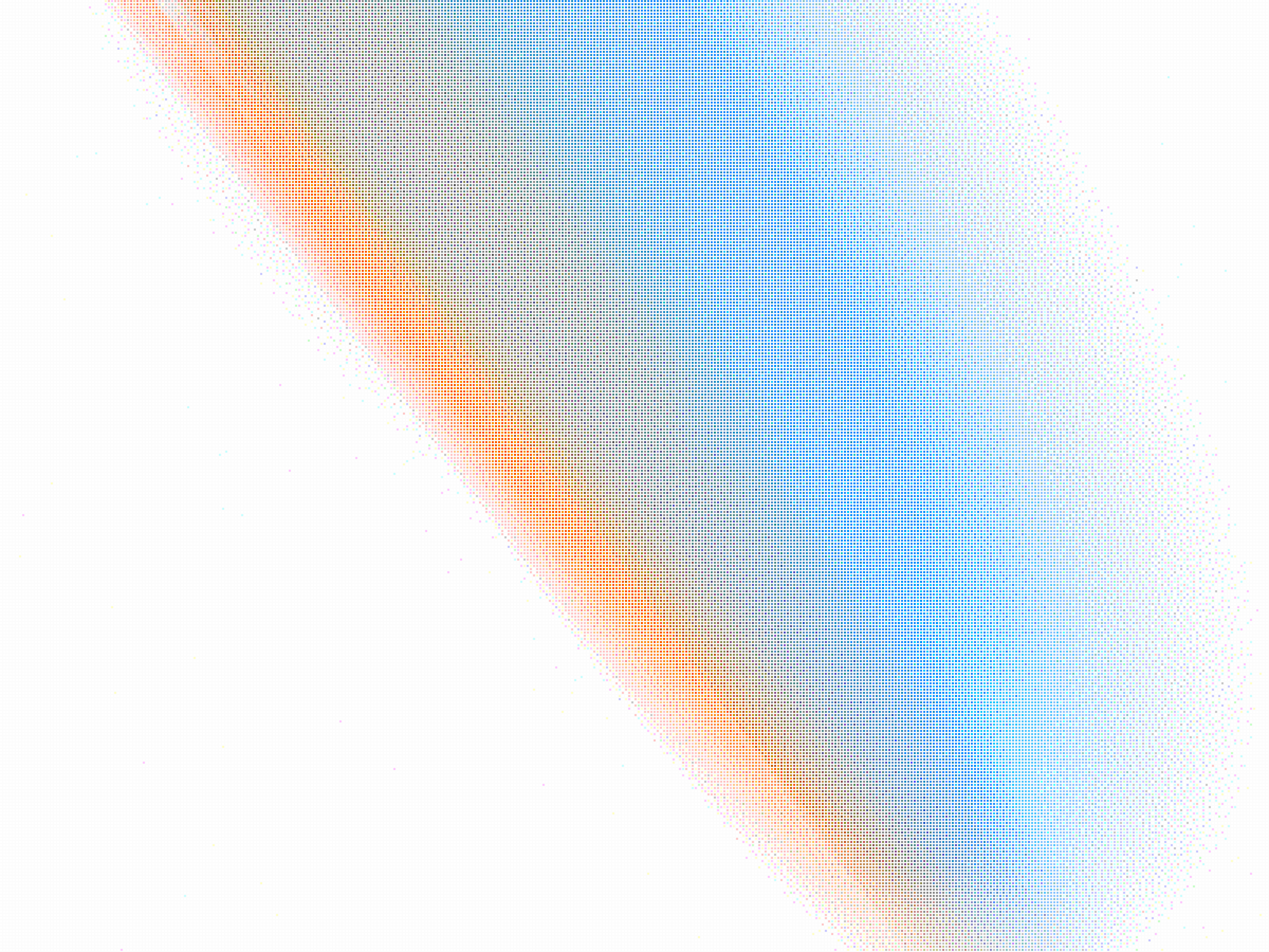
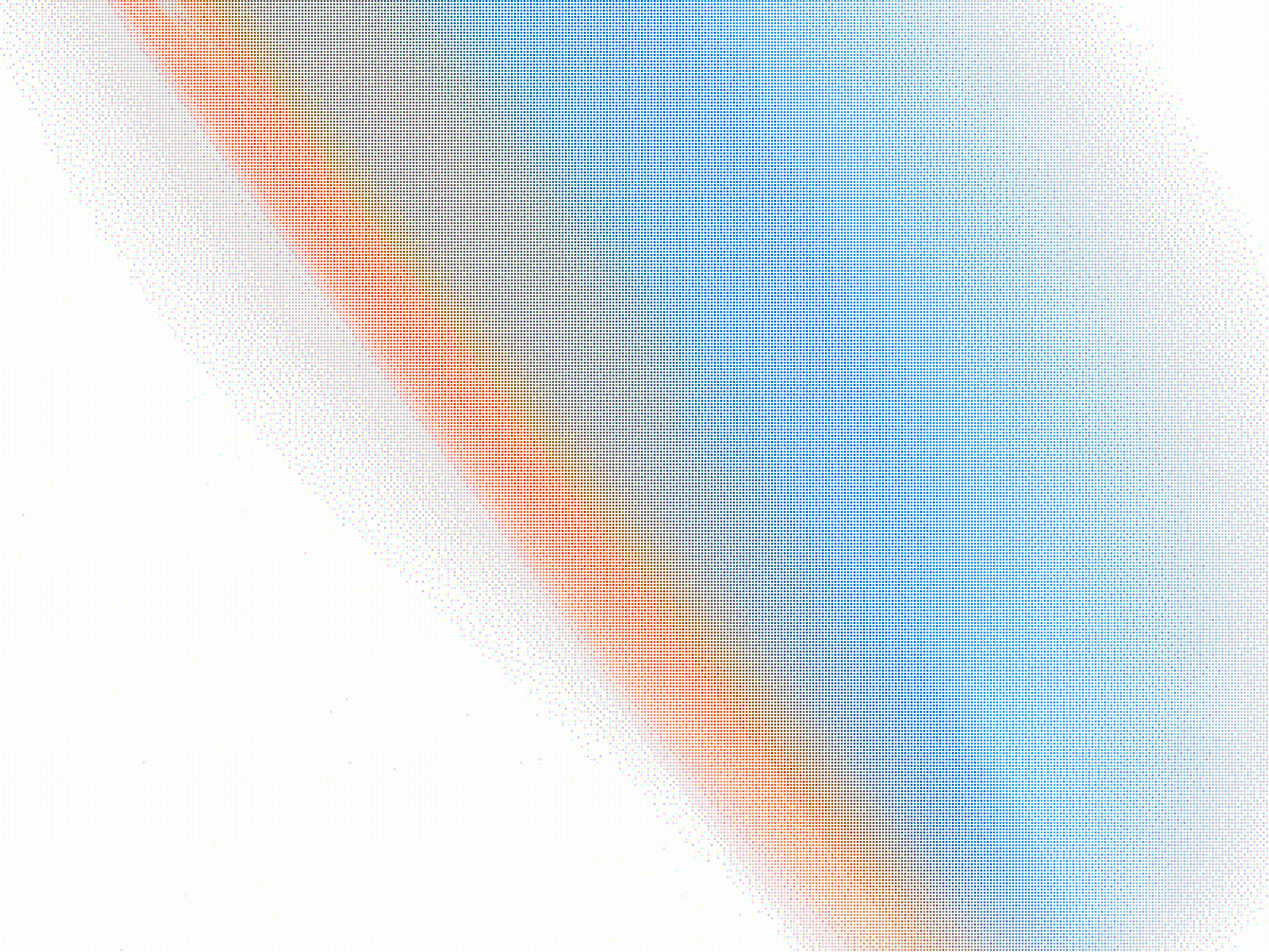
Light mode has the whole sunrise, blue sky and all, under a lighter veil
The light field kept only the band's rim and left the dim blue sky white, so the page read as a
wash. It now follows luminance on a curve that keeps the faint blue, deepened for print. The veil
behind the text is a per-theme token: strong on dark, lighter on light, and on a phone it spans the
width the text fills.

Changed region(s): [[0.0, 0.0, 1.0, 1.0]]

diff --git a/apps/web/scripts/field.ts b/apps/web/scripts/field.ts
@@ -74,13 +74,14 @@ function cells(light: boolean): Float32Array {
       const p = photo(x, y);
       for (let c = 0; c < 3; c++) {
         let v = p[c]! ** 1.4 * darken + (rand() * 2 - 1) * noise + noise * 0.35;
-        // On a light page the photo keeps its colour: space becomes paper, and the band's blue and orange are
-        // laid on it at full strength, so the page is white with a real sunrise across it rather than a wash.
+        // On a light page the photo keeps its colour: space becomes paper, and the atmosphere, dim blue sky and
+        // all, is laid on it in its own hues, so the page is white with a real sunrise across it rather than a wash.
+        // Presence follows luminance on a curve that keeps the faint blue, and each hue is deepened for print.
         if (light) {
           const lum = 0.2126 * p[0] + 0.7152 * p[1] + 0.0722 * p[2];
-          const presence = Math.min(1, Math.max(0, (lum - 0.06) / 0.5)); // how much of the scene is here
-          const sat = (p[c]! - lum) * 1.6; // its colour, boosted
-          const ink = 0.55 + sat; // the band's own tone: mid-bright, in its hue
+          const presence = Math.min(1, (lum / 0.6) ** 0.55); // how much of the scene is here
+          const sat = (p[c]! - lum) * 2.2; // its colour, boosted
+          const ink = 0.42 + sat; // the scene's own tone: deep enough to print, in its hue
           v = 1 - presence * (1 - Math.min(1, Math.max(0, ink))) + (rand() * 2 - 1) * noise * 0.5;
         }
         a[(y * COLS + x) * 3 + c] = v;

diff --git a/apps/web/src/Landing.tsx b/apps/web/src/Landing.tsx
@@ -233,7 +233,11 @@ const s = stylex.create({
   field: {
     position: "absolute",
     inset: 0,
-    backgroundImage: `radial-gradient(ellipse 70% 58% at 50% 34%, color-mix(in srgb, ${colors.page} 78%, transparent) 0%, color-mix(in srgb, ${colors.page} 55%, transparent) 45%, color-mix(in srgb, ${colors.page} 20%, transparent) 75%, transparent 100%), ${colors.field}`,
+    // On a phone the text fills the width, so the pool spans it edge to edge.
+    backgroundImage: {
+      default: `radial-gradient(ellipse 70% 58% at 50% 34%, color-mix(in srgb, ${colors.page} ${colors.veil}, transparent) 0%, color-mix(in srgb, ${colors.page} calc(${colors.veil} * 0.7), transparent) 45%, color-mix(in srgb, ${colors.page} calc(${colors.veil} * 0.25), transparent) 75%, transparent 100%), ${colors.field}`,
+      [PHONE]: `radial-gradient(ellipse 120% 52% at 50% 40%, color-mix(in srgb, ${colors.page} ${colors.veil}, transparent) 0%, color-mix(in srgb, ${colors.page} calc(${colors.veil} * 0.8), transparent) 55%, color-mix(in srgb, ${colors.page} calc(${colors.veil} * 0.3), transparent) 85%, transparent 100%), ${colors.field}`,
+    },
     // At least the screen's width, in whole multiples of half size where that fits, so the dots stay crisp.
     backgroundSize: { default: "auto, max(1200px, 100%) auto", [PHONE]: "auto, 1200px 900px" },
     backgroundPosition: { default: "center, center top", [PHONE]: "center, 70% top" },

diff --git a/apps/web/src/styles/tokens.stylex.ts b/apps/web/src/styles/tokens.stylex.ts
@@ -31,6 +31,9 @@ const DARK = {
   windowShadow: "0 40px 100px -20px rgb(0 0 0 / 60%)",
   // The page's ground: NASA's sunrise from orbit, dithered (scripts/field.ts), on a dark or a light page.
   field: 'url("/field-dark.webp")',
+  // How much of the page's colour veils the field behind the text (Landing.tsx): the dark page needs more, the light
+  // page's field is faint enough to show through.
+  veil: "78%",
   // The toggle shows what it switches to: a sun in the dark, a moon in the light.
   showSun: "flex",
   showMoon: "none",
@@ -57,6 +60,7 @@ const LIGHT_VALUES = {
   systemBlue: "#007aff",
   windowShadow: "0 40px 100px -20px rgb(0 0 0 / 18%)",
   field: 'url("/field-light.webp")',
+  veil: "66%",
   showSun: "none",
   showMoon: "flex",
 };
@@ -83,6 +87,7 @@ export const colors = stylex.defineVars({
   systemBlue: { default: DARK.systemBlue, [LIGHT]: LIGHT_VALUES.systemBlue },
   windowShadow: { default: DARK.windowShadow, [LIGHT]: LIGHT_VALUES.windowShadow },
   field: { default: DARK.field, [LIGHT]: LIGHT_VALUES.field },
+  veil: { default: DARK.veil, [LIGHT]: LIGHT_VALUES.veil },
   showSun: { default: DARK.showSun, [LIGHT]: LIGHT_VALUES.showSun },
   showMoon: { default: DARK.showMoon, [LIGHT]: LIGHT_VALUES.showMoon },
 });
